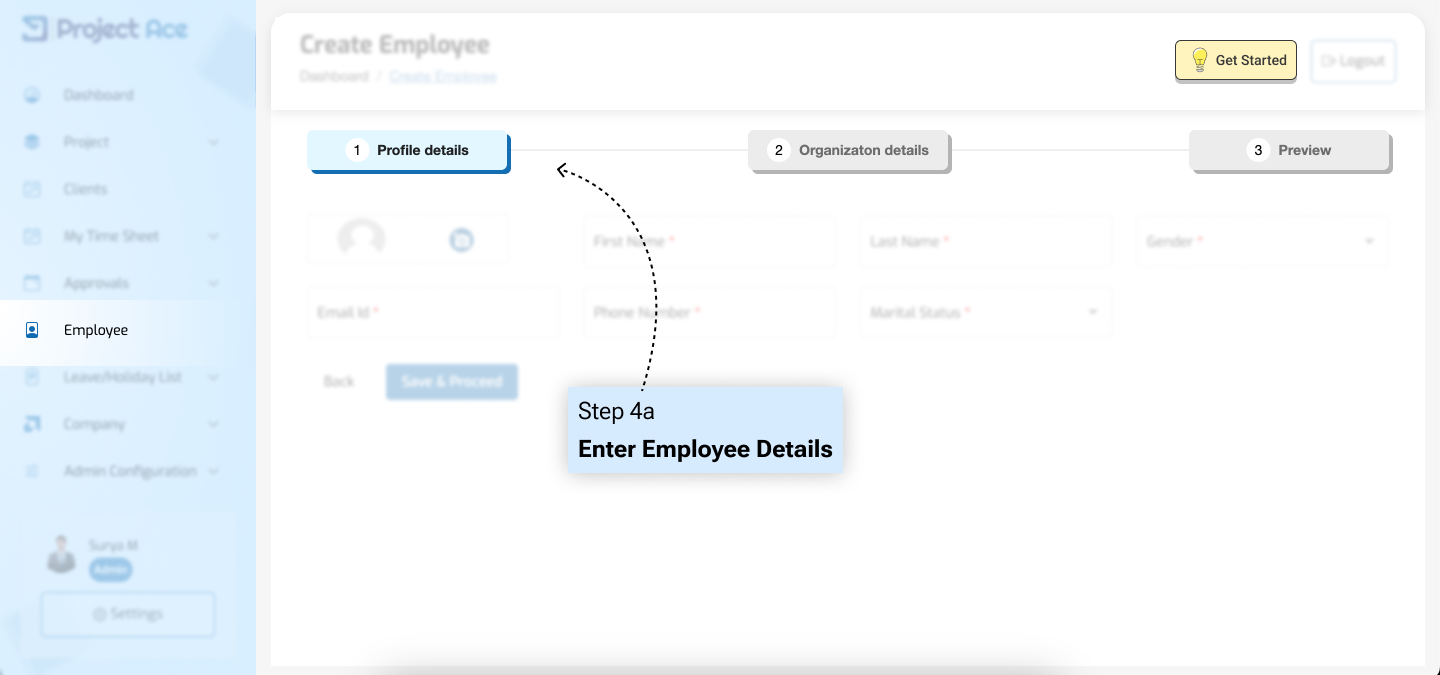
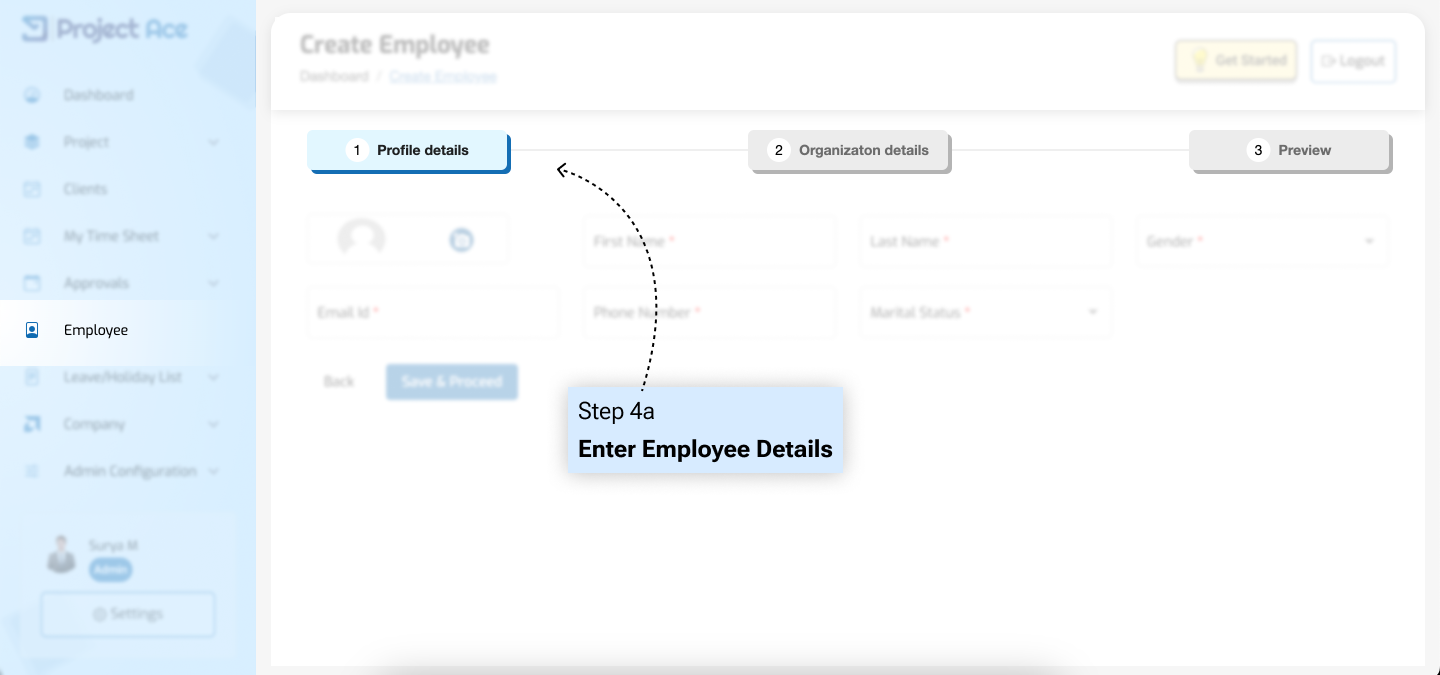
timer added in the otp screen, and user guide images updated

Changed region(s): [[0.8125, 0.0622, 0.9062, 0.1244]]

diff --git a/src/app/views/user-guide-modal/user-guide-modal.component.ts b/src/app/views/user-guide-modal/user-guide-modal.component.ts
@@ -36,7 +36,6 @@ export class UserGuideModalComponent implements OnInit {
         { image: '../../../assets/images/Screenshots/15.png' },
         { image: '../../../assets/images/Screenshots/16.png' },
         { image: '../../../assets/images/Screenshots/17.png' },
-        { image: '../../../assets/images/Screenshots/18-1.png' },
         { image: '../../../assets/images/Screenshots/18.png' },
         { image: '../../../assets/images/Screenshots/19.png' },
         { image: '../../../assets/images/Screenshots/20.png' },
@@ -47,17 +46,37 @@ export class UserGuideModalComponent implements OnInit {
       this.imageSlides = [];
     }
     else if (sessionStorage.getItem('user_role_name') === 'Employee') {
-      this.imageSlides = [
-        { image: '../../../assets/images/Screenshots/9.png' },
-        { image: '../../../assets/images/Screenshots/10.png' },
-        { image: '../../../assets/images/Screenshots/12.png' },
-        { image: '../../../assets/images/Screenshots/13.png' },
-        { image: '../../../assets/images/Screenshots/14.png' },
-        { image: '../../../assets/images/Screenshots/15.png' },
-        { image: '../../../assets/images/Screenshots/16.png' },
-        { image: '../../../assets/images/Screenshots/17.png' },
-        { image: '../../../assets/images/Screenshots/18-1.png' },
-      ]
+      let designation:any = sessionStorage.getItem('designation');
+      if (designation.toLowerCase().includes('manager')) {
+        // console.log('The string contains "manager".');
+        this.imageSlides = [
+          { image: '../../../assets/images/Screenshots/9.png' },
+          { image: '../../../assets/images/Screenshots/10.png' },
+          { image: '../../../assets/images/Screenshots/12.png' },
+          { image: '../../../assets/images/Screenshots/13.png' },
+          { image: '../../../assets/images/Screenshots/14.png' },
+          { image: '../../../assets/images/Screenshots/15.png' },
+          { image: '../../../assets/images/Screenshots/16.png' },
+          { image: '../../../assets/images/Screenshots/17.png' },
+          { image: '../../../assets/images/Screenshots/18.png' },
+          { image: '../../../assets/images/Screenshots/19.png' },
+          { image: '../../../assets/images/Screenshots/20.png' },
+        ]
+      } else {
+        // console.log('The string does not contain "manager".');
+        this.imageSlides = [
+          { image: '../../../assets/images/Screenshots/9.png' },
+          { image: '../../../assets/images/Screenshots/10.png' },
+          { image: '../../../assets/images/Screenshots/12.png' },
+          { image: '../../../assets/images/Screenshots/13.png' },
+          { image: '../../../assets/images/Screenshots/14.png' },
+          { image: '../../../assets/images/Screenshots/15.png' },
+          { image: '../../../assets/images/Screenshots/16.png' },
+          { image: '../../../assets/images/Screenshots/17.png' },
+          { image: '../../../assets/images/Screenshots/18.png' },
+        ]
+      }
+     
     }
   }
 

diff --git a/src/app/views/pages/otp/otp.component.ts b/src/app/views/pages/otp/otp.component.ts
@@ -15,11 +15,15 @@ export class OtpComponent implements OnInit {
   @ViewChild('num3', { static: false }) num3: ElementRef;
 
   constructor(private builder: FormBuilder, private api: ApiserviceService, private router: Router) { }
-
+  countdown: number = 59;
+  isButtonEnabled: boolean = false;
+  timer: any;
+  resendButtonClicked: boolean = false;
   ngOnInit(): void {
     this.initForm();
 
   }
+
   initForm() {
     this.otpForm = this.builder.group({
       num1: ['', Validators.required],
@@ -29,6 +33,49 @@ export class OtpComponent implements OnInit {
       num5: ['', Validators.required],
       num6: ['', Validators.required],
     })
+    setTimeout(() => {
+      this.startCountdown();
+    }, 1000);
+  }
+  startCountdown() {
+    this.isButtonEnabled = false;
+    this.resendButtonClicked = false;
+    this.countdown = 59;
+    this.timer = setInterval(() => {
+      if (this.countdown > 0) {
+        this.countdown--;
+      } else {
+        clearInterval(this.timer);
+        this.isButtonEnabled = true;
+      }
+    }, 1000);
+  }
+  resendOtp() {
+    this.resendButtonClicked = true;
+    let data = {
+      email: sessionStorage.getItem('email_id')
+    }
+    this.api.ForgotPasswordDetails(data).subscribe(
+      (response: any) => {
+        if (response) {
+          //  //console.log(response.result.details,response)
+          this.api.showSuccess(response.message)
+          this.initForm();
+          setTimeout(() => {
+            this.startCountdown();
+          }, 1000);
+        }
+        else {
+          //console.log('error message')
+          this.api.showError(response.error.message)
+          this.api.showError('ERROR !')
+        }
+
+      }, (error => {
+        //console.log(error,"MESSAGE")
+        this.api.showError(error.error.message)
+      })
+    )
   }
   sendOTP() {
     // let int = this.otpForm.value.num1
@@ -47,16 +94,16 @@ export class OtpComponent implements OnInit {
       this.api.otp(otpdata).subscribe((res: any) => {
         if (res) {
           this.api.showSuccess(res['message'])
-          sessionStorage.setItem('user_id',res['user_id'])
+          sessionStorage.setItem('user_id', res['user_id'])
           this.router.navigate(['/forgotChange']);
         }
         else {
-            this.api.showError(res['message']);
+          this.api.showError(res['message']);
         }
 
 
       }, (error => {
-        this.api.showError(error.error.error.message)
+        this.api.showError(error.error.message)
       }))
     }
 
@@ -66,7 +113,7 @@ export class OtpComponent implements OnInit {
 
   handleBackspace(event, currentControlName) {
     // console.log(event,event.key,"EVENT>KEY")
-    if (event.keyCode === 8 && event.target.value =='') {
+    if (event.keyCode === 8 && event.target.value == '') {
       event.preventDefault();
       const currentControl = this.otpForm.get(currentControlName);
       currentControl.setValue("");

diff --git a/src/app/views/project/create-new-project/create-new-project.component.scss b/src/app/views/project/create-new-project/create-new-project.component.scss
@@ -77,25 +77,32 @@
     // position: absolute !important;
     top: -2px !important;
 }
-.create-project .task-labels{
+
+.create-project .task-labels {
     font-size: 10px;
     margin-right: 2px;
 }
+
 .auto-height {
     height: auto !important;
-  }
-::ng-deep  .mat-select-panel {
+}
+
+::ng-deep .mat-select-panel {
     margin-left: 20px !important;
 }
+
 .create-project .custom-search input {
     width: 100%;
-    box-sizing: border-box; /* Ensure padding doesn't increase width */
+    box-sizing: border-box;
+    /* Ensure padding doesn't increase width */
 }
-.create-project .team-border{
+
+.create-project .team-border {
     border: 1px solid rgb(231, 229, 229);
     border-radius: 5px;
 }
-.create-project .tag-item i{
+
+.create-project .tag-item i {
     text-align: center;
     cursor: pointer !important;
 
@@ -105,38 +112,42 @@
 .create-project .tag-container {
     display: flex;
     flex-wrap: wrap;
-    max-height: 150px; /* Adjust this height to set the maximum height */
-    overflow-y: auto; /* Allow vertical scrolling when there is more data */
+    max-height: 150px;
+    /* Adjust this height to set the maximum height */
+    overflow-y: auto;
+    /* Allow vertical scrolling when there is more data */
     padding: 10px;
-  }
-  
-  .create-project .tag-container.collapsed {
-    max-height: 100px; /* Adjust height for collapsed view */
-    overflow-y: hidden; /* Hide scroll in collapsed view */
-  }
-  
-  .create-project .tag-item {
+}
+
+.create-project .tag-container.collapsed {
+    max-height: 100px;
+    /* Adjust height for collapsed view */
+    overflow-y: hidden;
+    /* Hide scroll in collapsed view */
+}
+
+.create-project .tag-item {
     background-color: lightblue;
     margin: 4px;
     padding: 4px 8px;
     border-radius: 4px;
     display: inline-flex;
     align-items: center;
-  }
-  
-  .create-project .remove-btn {
+}
+
+.create-project .remove-btn {
     margin-left: 8px;
     background-color: transparent;
     border: none;
     cursor: pointer;
-  }
-  
-  .create-project .controls {
+}
+
+.create-project .controls {
     margin-top: 10px;
     text-align: end;
-  }
-  
-  .create-project .toggle-btn {
+}
+
+.create-project .toggle-btn {
     margin-right: 10px;
     background-color: #418BC3;
     color: white;
@@ -146,8 +157,9 @@
     cursor: pointer;
     padding: 8px;
 
-  }
-  .create-project .clear-btn {
+}
+
+.create-project .clear-btn {
     border: none;
     margin-right: 10px;
     background-color: #DEDEDE;
@@ -157,5 +169,8 @@
     cursor: pointer;
     padding: 7px 10px;
 
-  }
-  
+}
+
+::ng-deep .create-project .mat-form-field-appearance-outline .mat-form-field-suffix {
+    top: .25em !important;
+}

diff --git a/src/app/views/pages/otp/otp.component.html b/src/app/views/pages/otp/otp.component.html
@@ -1,11 +1,11 @@
 <div class="container-fluid login-main-bg" style="margin: 0;padding: 5px 0px;">
     <div class="row login-content-bg">
         <div
-            class="col-12 col-md-12 col-lg-6 col-xl-6 login-left-content order-2 order-sm-2 order-md-2 order-lg-1 order-xl-1 ">
+            class="col-12 col-md-12 col-lg-8 col-xl-8 login-left-content order-2 order-sm-2 order-md-2 order-lg-1 order-xl-1 ">
             <img src="./../../../assets/images/login-left-content.png" class="left-content-img"
                 alt="left-content-img" />
         </div>
-        <div class="col-12 col-md-12 col-lg-6 col-xl-6 order-1 order-sm-1 order-md-1 order-lg-2 order-xl-2"
+        <div class="col-12 col-md-12 col-lg-4 col-xl-4 order-1 order-sm-1 order-md-1 order-lg-2 order-xl-2"
             style="position: relative; align-self: center;">
             <div class="login-right-content">
                 <div class="row">
@@ -51,6 +51,13 @@
                                     formControlName="num6" on-keyup="valCheck()"
                                     (keydown)="handleBackspace($event, 'num6')">
                             </div>
+                            <div class="text-end mb-3">
+                                <p *ngIf="!isButtonEnabled" class="fw-medium">resend OTP in {{countdown}} seconds</p>
+                                <div *ngIf="isButtonEnabled">
+                                    <button type="button" class="btn btn-sm btn-link"  [disabled]="resendButtonClicked"  (click)="resendOtp()">Resend OTP</button>
+                                </div>
+                            </div>
+                           
                             <!-- <div class="text-center mt-5">
                         <span class="d-block email-text">Don't receive the code? <span class="cursor fw-bold" (click)="resendOTP()">Resend</span></span>
                     </div> -->

diff --git a/src/app/views/leave-holiday-list/holiday-calendar/holiday-calendar.component.ts b/src/app/views/leave-holiday-list/holiday-calendar/holiday-calendar.component.ts
@@ -2,12 +2,14 @@ import { Component, ElementRef, OnInit, ViewChild } from '@angular/core';
 import { AbstractControl, FormBuilder, FormGroup, ValidationErrors, Validators } from '@angular/forms';
 import { ApiserviceService } from 'src/app/service/apiservice.service';
 import { environment } from 'src/environments/environment';
+import { CommonServiceService } from 'src/app/service/common-service.service';
 @Component({
   selector: 'app-holiday-calendar',
   templateUrl: './holiday-calendar.component.html',
   styleUrls: ['./holiday-calendar.component.scss']
 })
 export class HolidayCalendarComponent implements OnInit {
+  BreadCrumbsTitle: any = 'Holiday Calendar';
   file: any;
   fileUpload;
   formData:any;
@@ -20,10 +22,12 @@ export class HolidayCalendarComponent implements OnInit {
   
   constructor(
     private api:ApiserviceService,
-    private fb:FormBuilder
+    private fb:FormBuilder,
+    private common_service:CommonServiceService
   ) { }
 
   ngOnInit(): void {
+    this.common_service.setTitle(this.BreadCrumbsTitle);
     this.organization_id = sessionStorage.getItem('organization_id')
     this.getHolidayList()
     this.initForm()

diff --git a/src/app/views/login/login.component.ts b/src/app/views/login/login.component.ts
@@ -80,6 +80,7 @@ export class LoginComponent implements OnInit {
             sessionStorage.setItem('user_role_name', data.user_role);
             sessionStorage.setItem('permissionArr', JSON.stringify(data.access_list));
             sessionStorage.setItem('organization_id', data.organization_id);
+            sessionStorage.setItem('designation', data.designation);
               let permissionArr: any = []
               permissionArr = JSON.parse(sessionStorage.getItem('permissionArr'));
               this.router.navigate([data.access_list[0].url || data.access_list[0].children[0].url]);

diff --git a/src/app/views/change-passwords/change-passwords.component.scss b/src/app/views/change-passwords/change-passwords.component.scss
@@ -45,6 +45,6 @@ i {
 ::ng-deep .change-password-inside .mat-form-field-wrapper{
     padding-bottom: 0em;
 }
-::ng-deep .login-content-bg .mat-form-field-appearance-outline .mat-form-field-suffix {
+::ng-deep .change-password-inside .mat-form-field-appearance-outline .mat-form-field-suffix {
     top: .25em !important;
 }

diff --git a/src/app/views/pages/forgot-password/forgot-password.component.ts b/src/app/views/pages/forgot-password/forgot-password.component.ts
@@ -48,7 +48,7 @@ export class ForgotPasswordComponent implements OnInit {
          
         },(error  =>{
           //console.log(error,"MESSAGE")
-          this.api.showError(error.error.error.message)
+          this.api.showError(error.error.message)
         })
         
         

diff --git a/src/app/views/project/update-project/update-project.component.scss b/src/app/views/project/update-project/update-project.component.scss
@@ -194,4 +194,6 @@
     padding: 7px 10px;
 
   }
-  
+  ::ng-deep .update-project-details .mat-form-field-appearance-outline .mat-form-field-suffix {
+    top: .25em !important;
+}
